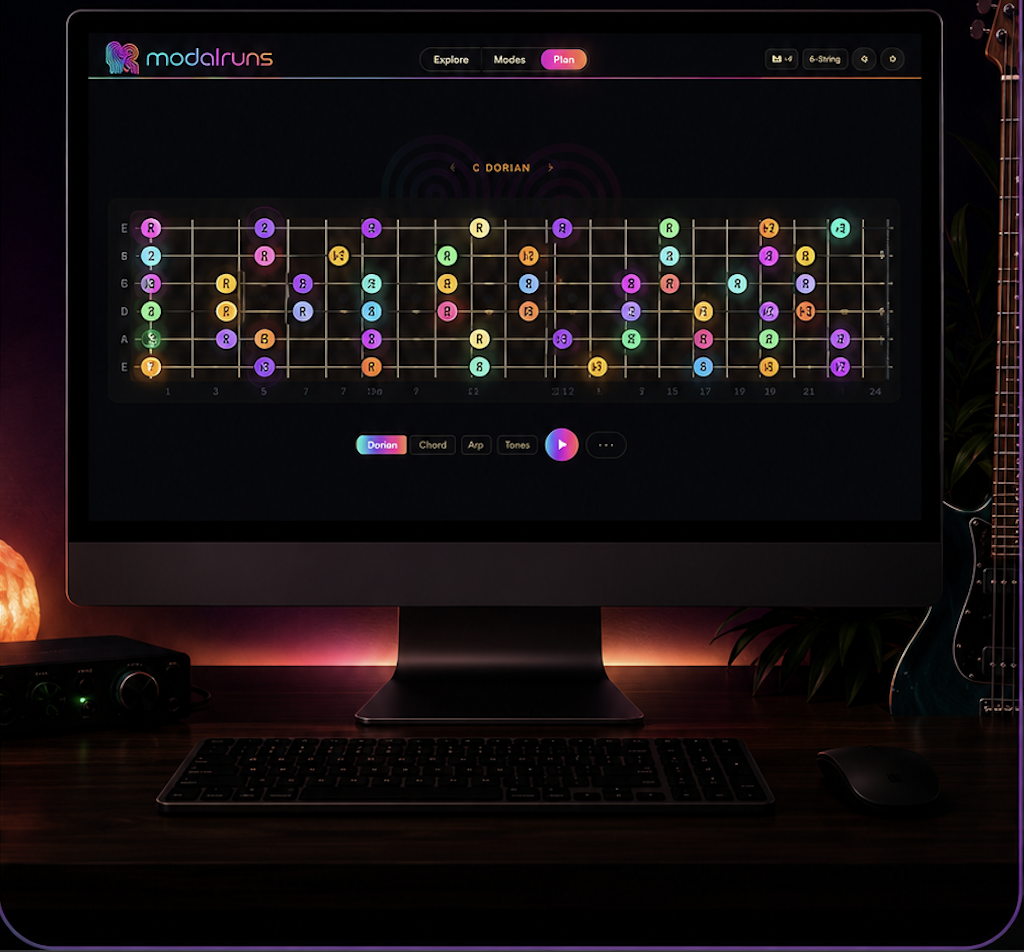
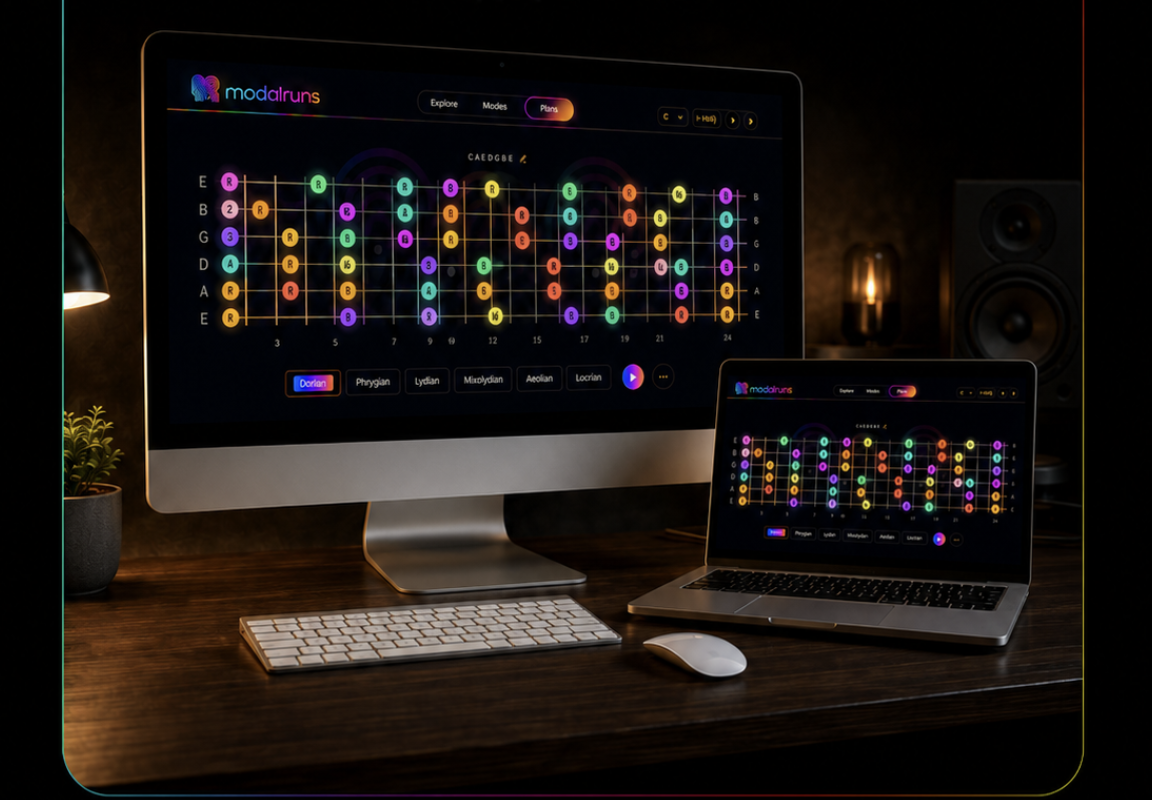
Desktop nudge: rainbow border, gradient "modalruns" title, updated art (#98)
Matches the second reference design: conic-gradient border (cyan through
purple, pink, coral, amber, back to cyan) instead of the single linear
brand gradient, "modalruns" in gradient text within the title, and the
two-monitor (desktop + laptop) artwork replacing the single-monitor crop.

diff --git a/src/styles/index.css b/src/styles/index.css
@@ -3587,7 +3587,10 @@ body { font-family: var(--font-sans); -webkit-font-smoothing: antialiased; overf
   border: 1px solid transparent;
   background:
     linear-gradient(var(--bg-surface), var(--bg-surface)) padding-box,
-    var(--brand-grad) border-box;
+    conic-gradient(from 180deg,
+      var(--neon-cyan), var(--neon-blue), var(--neon-purple),
+      var(--neon-pink), var(--neon-coral), var(--neon-amber), var(--neon-cyan)
+    ) border-box;
   box-shadow: 0 0 50px rgba(152,70,234,0.18);
 }
 .desktop-nudge-close {
@@ -3626,6 +3629,12 @@ body { font-family: var(--font-sans); -webkit-font-smoothing: antialiased; overf
   font-weight: 700;
   color: var(--text);
   text-wrap: balance;
+}
+.desktop-nudge-title-brand {
+  background: var(--brand-grad);
+  -webkit-background-clip: text;
+  background-clip: text;
+  color: transparent;
 }
 .desktop-nudge-sub {
   font-size: 13.5px;

diff --git a/src/App.tsx b/src/App.tsx
@@ -1398,7 +1398,7 @@ export default function App() {
             </button>
             <div className="desktop-nudge">
               <img className="desktop-nudge-logo" src="/mark.png" alt="" />
-              <h2 className="desktop-nudge-title">{T('Modal Runs looks best on desktop')}</h2>
+              <h2 className="desktop-nudge-title"><span className="desktop-nudge-title-brand">modalruns</span> {T('looks best on desktop')}</h2>
               <p className="desktop-nudge-sub">
                 {T('The whole neck, every mode, side by side — a bigger screen shows a lot more of it at once. Totally playable here too.')}
               </p>